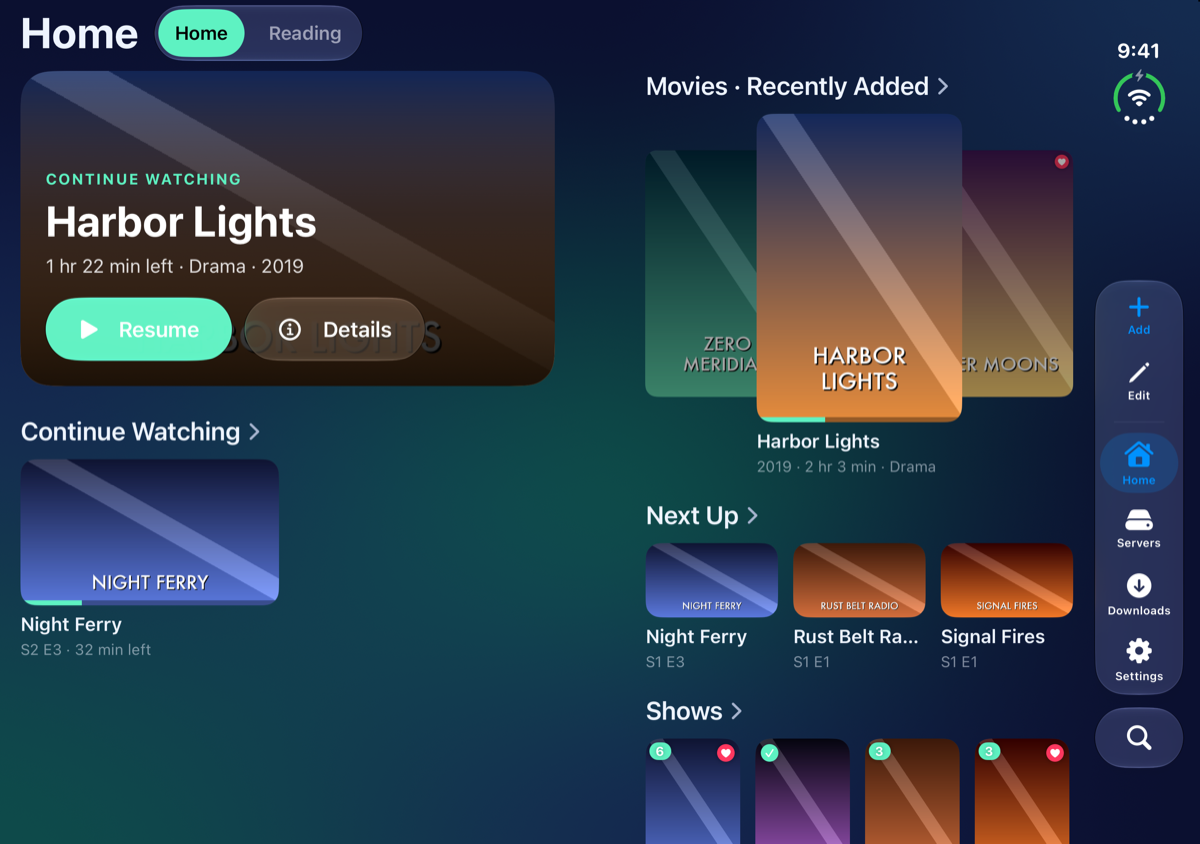
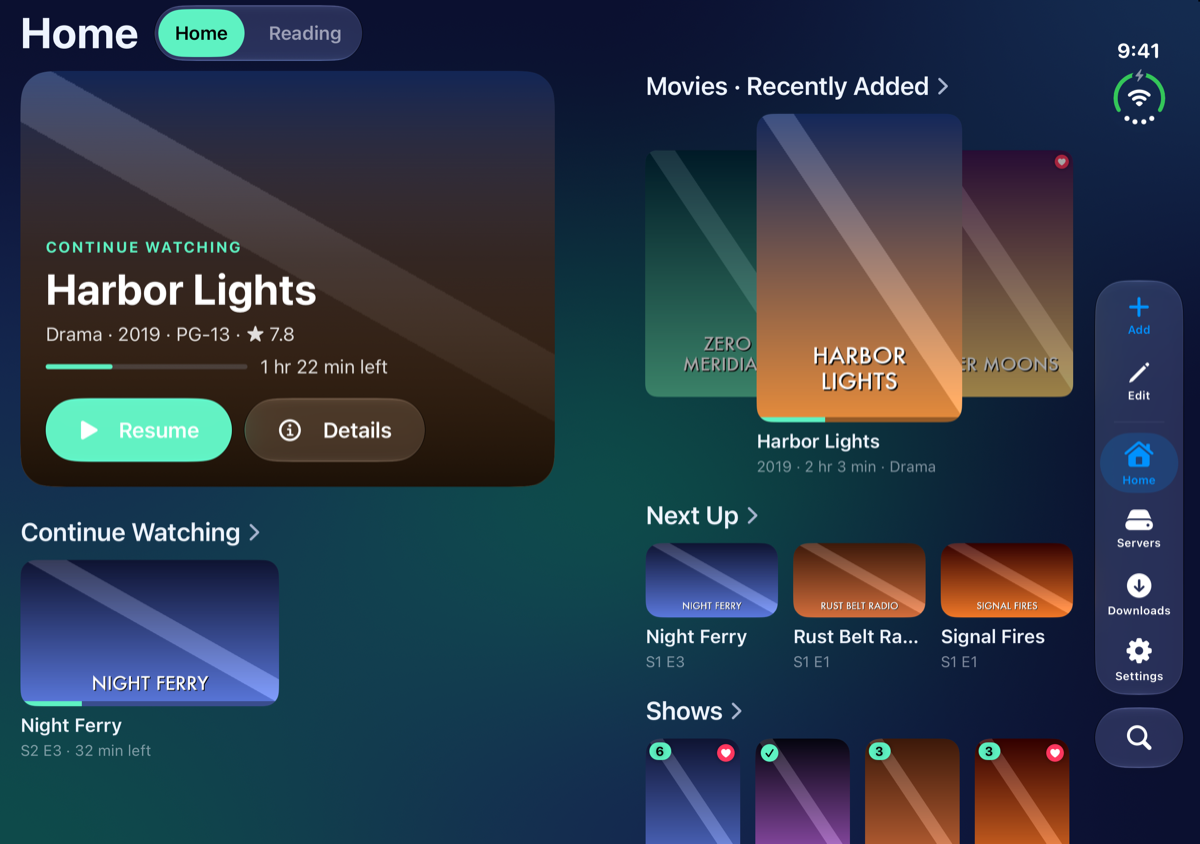
Publish the guide (from 49a398a)

Changed region(s): [[0.0, 0.0616, 0.4625, 0.8934]]

diff --git a/Home-Screen.md b/Home-Screen.md
@@ -164,9 +164,9 @@ Home can also list your saved servers (**Shares**, **Jellyfin** and **Catalogs**
 
 ## Home on the open iPhone Duo
 
-<img src="images/duo-open-side/home.png" width="520" alt="Home in Spotlight on the iPhone Duo open on its side: Harbor Lights big on the left with Resume and Details, the shelves on the right">
+<img src="images/duo-open-side/home.png" width="520" alt="Home in Spotlight on the iPhone Duo open on its side: Harbor Lights big on the left with how far you are and Resume and Details, the shelves on the right">
 
-Open on its side, Home starts in **Spotlight**. Left of the fold is the one thing you're most likely to carry on with, big, with **Resume** and **Details** on it and **Continue Watching** under it. Right of the fold are the rest of your shelves. Nothing sits across the fold.
+Open on its side, Home starts in **Spotlight**. Left of the fold is the one thing you're most likely to carry on with, big, drawn on the item's own backdrop, with how far you are (a bar and the time left) and **Resume** and **Details** on it, and **Continue Watching** under it, two to a row. Right of the fold are the rest of your shelves. Nothing sits across the fold.
 
 - With no Continue Watching on that Home, the spotlight shows the newest thing on its first shelf.
 - While you edit Home, it's two columns, so you can drag a widget anywhere.

diff --git a/whats-new.md b/whats-new.md
@@ -12,6 +12,24 @@ The highlights of each MK Plus update since public TestFlight testing began (ver
 
 ## November 2026
 
+### A Spotlight that fills its half
+
+_Version 1.372.3 · 15 November 2026_
+
+- Home's Spotlight card is taller, on the item's own backdrop, with how far you are and the time left.
+- Continue Watching under it runs two to a row.
+
+<details markdown="1">
+<summary>Everything in 1.372.3</summary>
+
+**Changed**
+
+- On the open Duo on its side and the iPad, Spotlight's card is taller and drawn on the item's backdrop, so no title is behind the buttons.
+- The card shows a bar and the time left above Resume and Details.
+- Continue Watching under the card runs two to a row, so the left half is filled.
+
+</details>
+
 ### Reading Options change just this book
 
 _Version 1.372.0 · 14 November 2026_
